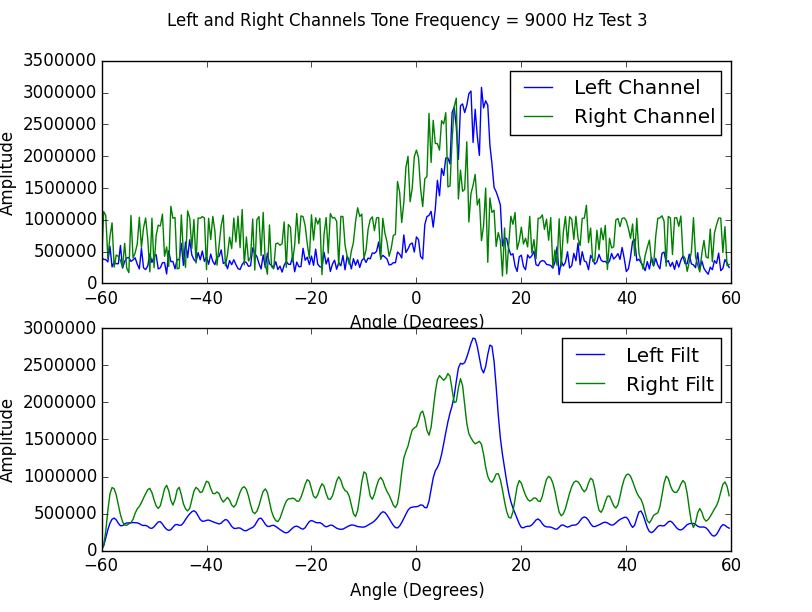
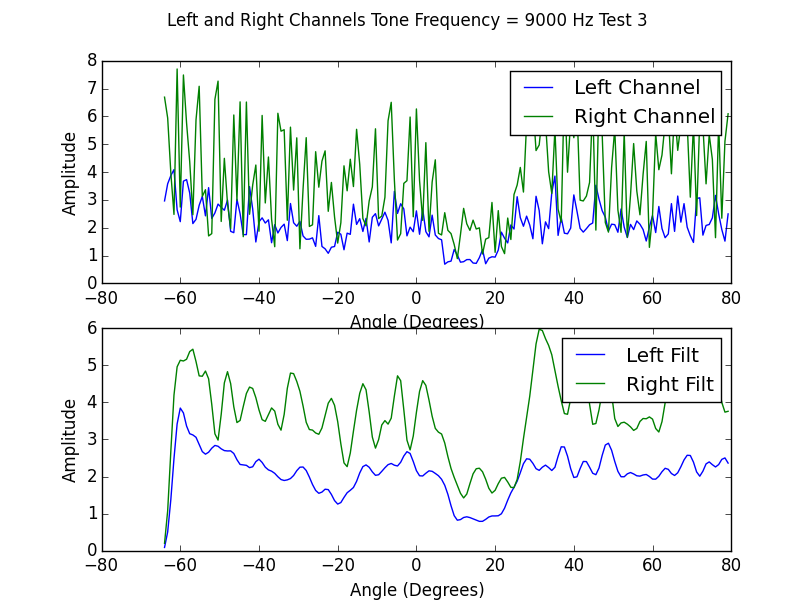
Tests in aero

diff --git a/scan_beampattern_drone_no_offset.py b/scan_beampattern_drone_no_offset.py
@@ -1,0 +1,199 @@
+import pyaudio
+import numpy as np
+from matplotlib import pyplot as plt
+import wave
+import maestro
+import time
+import scipy.signal
+from scipy.fftpack import fft
+from detect_peaks import detect_peaks
+from scipy.signal import butter, lfilter, freqz
+
+
+# Recording parameters
+CHUNKSIZE = 4096
+FORMAT = pyaudio.paInt32
+CHANNELS = 2
+RATE = 48000 
+RECORD_SECONDS = 0.1
+
+#Move the servo to starting location
+elev = 7800
+azi_max = 7000
+azi_min = 5200
+azi = azi_min
+inc = 10
+servo = maestro.Controller()
+servo.setTarget(0,azi)  #set servo to move to center position
+servo.setTarget(1,elev)     #elevation
+servo.close
+
+time.sleep(1)
+
+#arrays for plotting
+peaks_L_freq = []
+peaks_L_amp = []
+peaks_R_freq = []
+peaks_R_amp = []
+peaks_L_avg = []
+peaks_R_avg = []
+
+#infinite loop
+for azi in range (azi_min, azi_max, inc):
+# initialize portaudio
+    p = pyaudio.PyAudio()
+    stream = p.open(format=FORMAT,
+                    channels=CHANNELS,
+                    rate=RATE,
+                    input=True,
+                    frames_per_buffer=CHUNKSIZE)
+
+
+    frames = [] # A python-list of chunks(numpy.ndarray)
+    frames_str = []
+    for _ in range(0, int(RATE / CHUNKSIZE * RECORD_SECONDS)):
+        data = stream.read(CHUNKSIZE)
+        frames.append(np.fromstring(data, dtype=np.int32))
+        frames_str.append(data)
+        numpydata = np.fromstring(data, dtype=np.int32)
+
+    # close stream
+    stream.stop_stream()
+    stream.close()
+    p.terminate()
+
+    #extract channels
+    left = numpydata[0::2]
+    right = numpydata[1::2]
+
+    # FFT
+    import scipy.signal
+    from scipy.fftpack import fft
+    Fs = RATE
+    T = 1.0/Fs
+    N = CHUNKSIZE
+
+    yf_L = scipy.fftpack.fft(left)
+    yf_R = scipy.fftpack.fft(right)
+    xf = np.linspace(0.0, 1.0/(2.0*T), N/2)
+
+    freqs = xf  # dont plot first element to remove DC component
+    # Create power spectral density 
+    psd_L = 2.0/N * np.abs(yf_L[0:N/2])
+    psd_R = 2.0/N * np.abs(yf_R[0:N/2])
+    
+    # Find PSD at frequency of interest
+    index2freq = 1.0/(2.0*T)/(N/2)
+    minF = 8000      #min freq Hz
+    maxF = 10000     #max freq Hz
+    HpassFreq = 100     #ignore values below this freq when calc noise floor
+    Hpass = round(HpassFreq/index2freq)
+    index_min = round(minF/index2freq)
+    index_max = round(maxF/index2freq)
+
+    # Get the normalised signal from L and R
+    sig_end = round(20000/index2freq)
+    std_sig_L = np.std(psd_L[index_min:index_max], dtype=np.float64)
+    std_sig_R = np.std(psd_R[index_min:index_max], dtype=np.float64)
+    std_noise_L = np.std(psd_L[sig_end:], dtype=np.float64)
+    std_noise_R = np.std(psd_L[sig_end:], dtype=np.float64)
+    norm = std_sig_L + std_sig_R + (std_noise_L + std_noise_R)
+    psd_norm_L = psd_L/norm
+    psd_norm_R = np.divide(psd_R, norm)
+
+    #Add the mean from each channel to the list
+    peaks_L_avg.append(np.mean(psd_norm_L))
+    peaks_R_avg.append(np.mean(psd_norm_R))
+
+    #Move the servo
+    servo = maestro.Controller()
+    servo.setTarget(0,azi)  #set servo to move to center position
+    servo.setTarget(1,elev)     #elevation
+    servo.close
+
+angle = range(azi_min,azi_max,inc)
+angle[:] = [x - 6000 for x in angle]
+angle = [x*0.08 for x in angle]   #convert angle to degrees
+#angle[:] = [x - 10 for x in angle] #offset angle
+diff = [m - n for m,n in zip(peaks_L_avg,peaks_R_avg)]
+sum_sig = [m + n for m,n in zip(peaks_L_avg,peaks_R_avg)]
+
+# Filter requirements.
+order = 3
+fs = 30       # sample rate, Hz
+cutoff = 3.667  # desired cutoff frequency of the filter, Hz
+
+def butter_lowpass(cutoff, fs, order=5):
+    nyq = 0.5 * fs
+    normal_cutoff = cutoff / nyq
+    b, a = butter(order, normal_cutoff, btype='low', analog=False)
+    return b, a
+
+def butter_lowpass_filter(data, cutoff, fs, order=5):
+    b, a = butter_lowpass(cutoff, fs, order=order)
+    y = lfilter(b, a, data)
+    return y
+
+
+# Get the filter coefficients so we can check its frequency response.
+b, a = butter_lowpass(cutoff, fs, order)
+
+diff_filt = butter_lowpass_filter(diff, cutoff, fs, order)
+sum_filt = butter_lowpass_filter(sum_sig, cutoff, fs, order)
+peaks_L_filt = butter_lowpass_filter(peaks_L_avg, cutoff, fs, order)
+peaks_R_filt = butter_lowpass_filter(peaks_R_avg, cutoff, fs, order)
+diff_filt2 = [m - n for m,n in zip(peaks_L_filt,peaks_R_filt)]
+
+testfreq = 9000
+testnum = 3
+ff = 0    #ignore X first steps to shift graph
+
+fig = plt.figure()
+ax1 = fig.add_subplot(211) 
+NF1, = ax1.plot(angle[ff:], peaks_L_avg[ff:], label = "Left Channel")
+NF2, = ax1.plot(angle[ff:], peaks_R_avg[ff:], label = "Right Channel")
+plt.legend(handles = [NF1,NF2])
+plt.show(block = False)
+plt.suptitle('Left and Right Channels Tone Frequency = {1} Hz Test {0}'.format(testnum, testfreq))
+plt.xlabel('Angle (Degrees)')
+plt.ylabel('Amplitude')
+
+ax2 = fig.add_subplot(212) 
+NF11, = ax2.plot(angle[ff:], peaks_L_filt[ff:], label = "Left Filt".format(cutoff))
+NF21, = ax2.plot(angle[ff:], peaks_R_filt[ff:], label = "Right Filt".format(cutoff))
+plt.legend(handles = [NF11,NF21])
+plt.show(block = False)
+plt.xlabel('Angle (Degrees)')
+plt.ylabel('Amplitude')
+plt.savefig('LR_Channels_Test{0}'.format(testnum))
+
+fig = plt.figure()
+ax1 = fig.add_subplot(211)
+NF3, = ax1.plot(angle[ff:], diff[ff:], label = "Unfiltered")
+ax1.plot((-60, 60), (0, 0), 'k-')
+ax1.plot((0, 0), (min(diff), max(diff)), 'k-')
+plt.legend(handles = [NF3])
+plt.xlabel('Angle (Degrees)')
+plt.ylabel('Amplitude')
+
+ax2 = fig.add_subplot(212)
+NF4, = ax2.plot(angle[ff:], diff_filt[ff:], label = "Fc = {0}".format(cutoff))
+ax2.plot((-60, 60), (0, 0), 'k-')
+ax2.plot((0, 0), (min(diff), max(diff)), 'k-')
+plt.legend(handles = [NF4])
+plt.suptitle('Error Signal Tone Frequency = {1} Hz Test {0}'.format(testnum,testfreq,cutoff))
+plt.xlabel('Angle (Degrees)')
+plt.ylabel('Amplitude')
+plt.show(block = False)
+plt.savefig('Error_Signal_Test{0}'.format(testnum))
+
+plt.figure()
+NF31, = plt.plot(angle[ff:], sum_sig[ff:], label = "Sum Unfiltered")
+NF32, = plt.plot(angle[ff:], sum_filt[ff:], label = "Sum Fc = {0}".format(cutoff))
+plt.plot((0, 0), (min(sum_sig), max(sum_sig)), 'k-')
+plt.legend(handles = [NF31, NF32])
+plt.show(block = False)
+plt.suptitle('Sum Signal Tone Frequency = {1} Hz Test {0}'.format(testnum,testfreq))
+plt.xlabel('Angle (Degrees)')
+plt.ylabel('Amplitude')
+plt.savefig('Sum_Signal_Test{0}'.format(testnum))

diff --git a/tracking_drone_psd_average.py b/tracking_drone_psd_average.py
@@ -16,10 +16,10 @@ RATE = 48000
 RECORD_SECONDS = 0.1
 
 #Move the servo to starting location
-azi = 6000  # Initial starting values
-elev = 7000
-azi_max = 8000
-azi_min = 4000
+azi = 5800  # Initial starting values
+elev = 8000
+azi_max = 6500
+azi_min = 5500
 servo = maestro.Controller()
 servo.setTarget(0,azi)  #set servo to move to center position
 servo.setTarget(1,elev)     #elevation
@@ -27,8 +27,11 @@ servo.close
 # Wait for servo to finish turning
 time.sleep(1)
 # Begin scanning in CW
-inc_scan = 100   # Increment for scanning
-scan_CW = 1
+inc_scan = 0   # Increment for scanning
+scan_CW = 0
+
+loop = 0
+error_buff = np.array([0, 0, 0, 0, 0])
 
 while(1):
     # Initialize portaudio
@@ -94,7 +97,7 @@ while(1):
     # Find the noise floor (Normalised)
     # Noise floor is average of L and R channels averaged 
     NF_LR = (np.average(psd_L[Hpass:]) + np.average(psd_R[Hpass:]))/2    
-    SNR = 2     # gain, not in dB. Using a +3dB SNR
+    SNR = 1.5     # gain, not in dB. Using a +3dB SNR
     peak_height_LR = NF_LR*SNR     #calc the min height for a signal
 
     # Apply band pass filter
@@ -109,36 +112,58 @@ while(1):
 
     # Peak Filtering, see if over N signals counted
     # Minimum number of peaks required for a drone to be confirmed
-    min_num_peaks = 3   
+    min_num_peaks = 1   
 
     # Move towards target if drone is detected
     # Need both L and R channels to see N peaks (Debatable?)
     if len(ind_L) >= min_num_peaks and len(ind_R) >= min_num_peaks:    
         # Difference between means of L and R channels in the band of interest
-        error_sig = np.mean(peaks_L[index_min:index:max]) - np.mean(peaks_R[index_min:index:max])
+        error_sig = np.mean(psd_L[index_min:index_max]) - np.mean(psd_R[index_min:index_max])
         # Sum of means of L and R channels in the band of interest
-        sum_sig = np.mean(peaks_L[index_min:index:max]) + np.mean(peaks_R[index_min:index:max])
+        sum_sig = np.mean(psd_L[index_min:index_max]) + np.mean(psd_R[index_min:index_max])
        
-        offset_diff = 0.1*NF_LR     #offset for min sum calc
         # Minimum sum value found as a function of the noise floor or HARD CODED
-        min_sum = 2*NF_LR + offset_diff
+        min_sum = NF_LR * 1
         
+        # ******************* DEBUGGING AND DIAGNOSTICS ***********************
+        testnum = 2
+        loop = loop + 1
+#        print("ERROR = {1},     SUM = {0},    MIN SUM = {2}".format(sum_sig,error_sig,min_sum))
+        #ind_L = detect_peaks(psd_L, mph=peak_height_LR, mpd=1, show=True)
+        #plt.plot((0,Fs/2),(peak_height_LR, peak_height_LR),'r--')
+        #plt.savefig('Peak Detection Test {0} Loop {1}'.format(testnum,loop))
+        
+        #ind_R = detect_peaks(psd_R, mph=peak_height_LR, mpd=1, show=True)
+        
+        # ******************** END ********************************************
+
         # Only move if sum above a certain value to prevent jittering on boresight                
         if abs(sum_sig) > min_sum:
 
             # Calculate amount to move by
-            inc = 50
+            inc = 20
+            alpha_error = 0.5
+            error2azi = 25
+
+            azi_error = np.mean(error_buff)*(1-alpha_error) + alpha_error*error_sig
+            azi_error = int(round(azi_error*error2azi))
+            print("ERROR = {0}, AZI_ERROR = {1}".format(error_sig,min_sum))
+
+            #print("Azimuth to move = {0}".format(azi_error))
+            # Move buffer along
+            error_buff[0:3] = error_buff[1:4]
+            error_buff[4] = error_sig
             
             # Rotate based on sign of error signal
-            if error_sig > 0:
+            if azi_error > 0:
                 #rotate CCW, towards Right
-                azi = azi - inc
+                azi = azi - abs(azi_error)
                 # Dont rotate past hard limit
                 if azi < azi_min:
                     azi = azi_min
             else:
                 #rotate CW, towards Left
-                azi = azi + inc
+                azi = azi + abs(azi_error)
                 # Dont rotate past hard limit
                 if azi > azi_max:
                     azi = azi_max

diff --git a/looping_FFT_AGC.py b/looping_FFT_AGC.py
@@ -26,7 +26,7 @@ servo.close
 
 loop = 0
 #infinite loop
-while(loop < 2):
+while(loop < 5):
     loop = loop + 1
 # initialize portaudio
     p = pyaudio.PyAudio()
